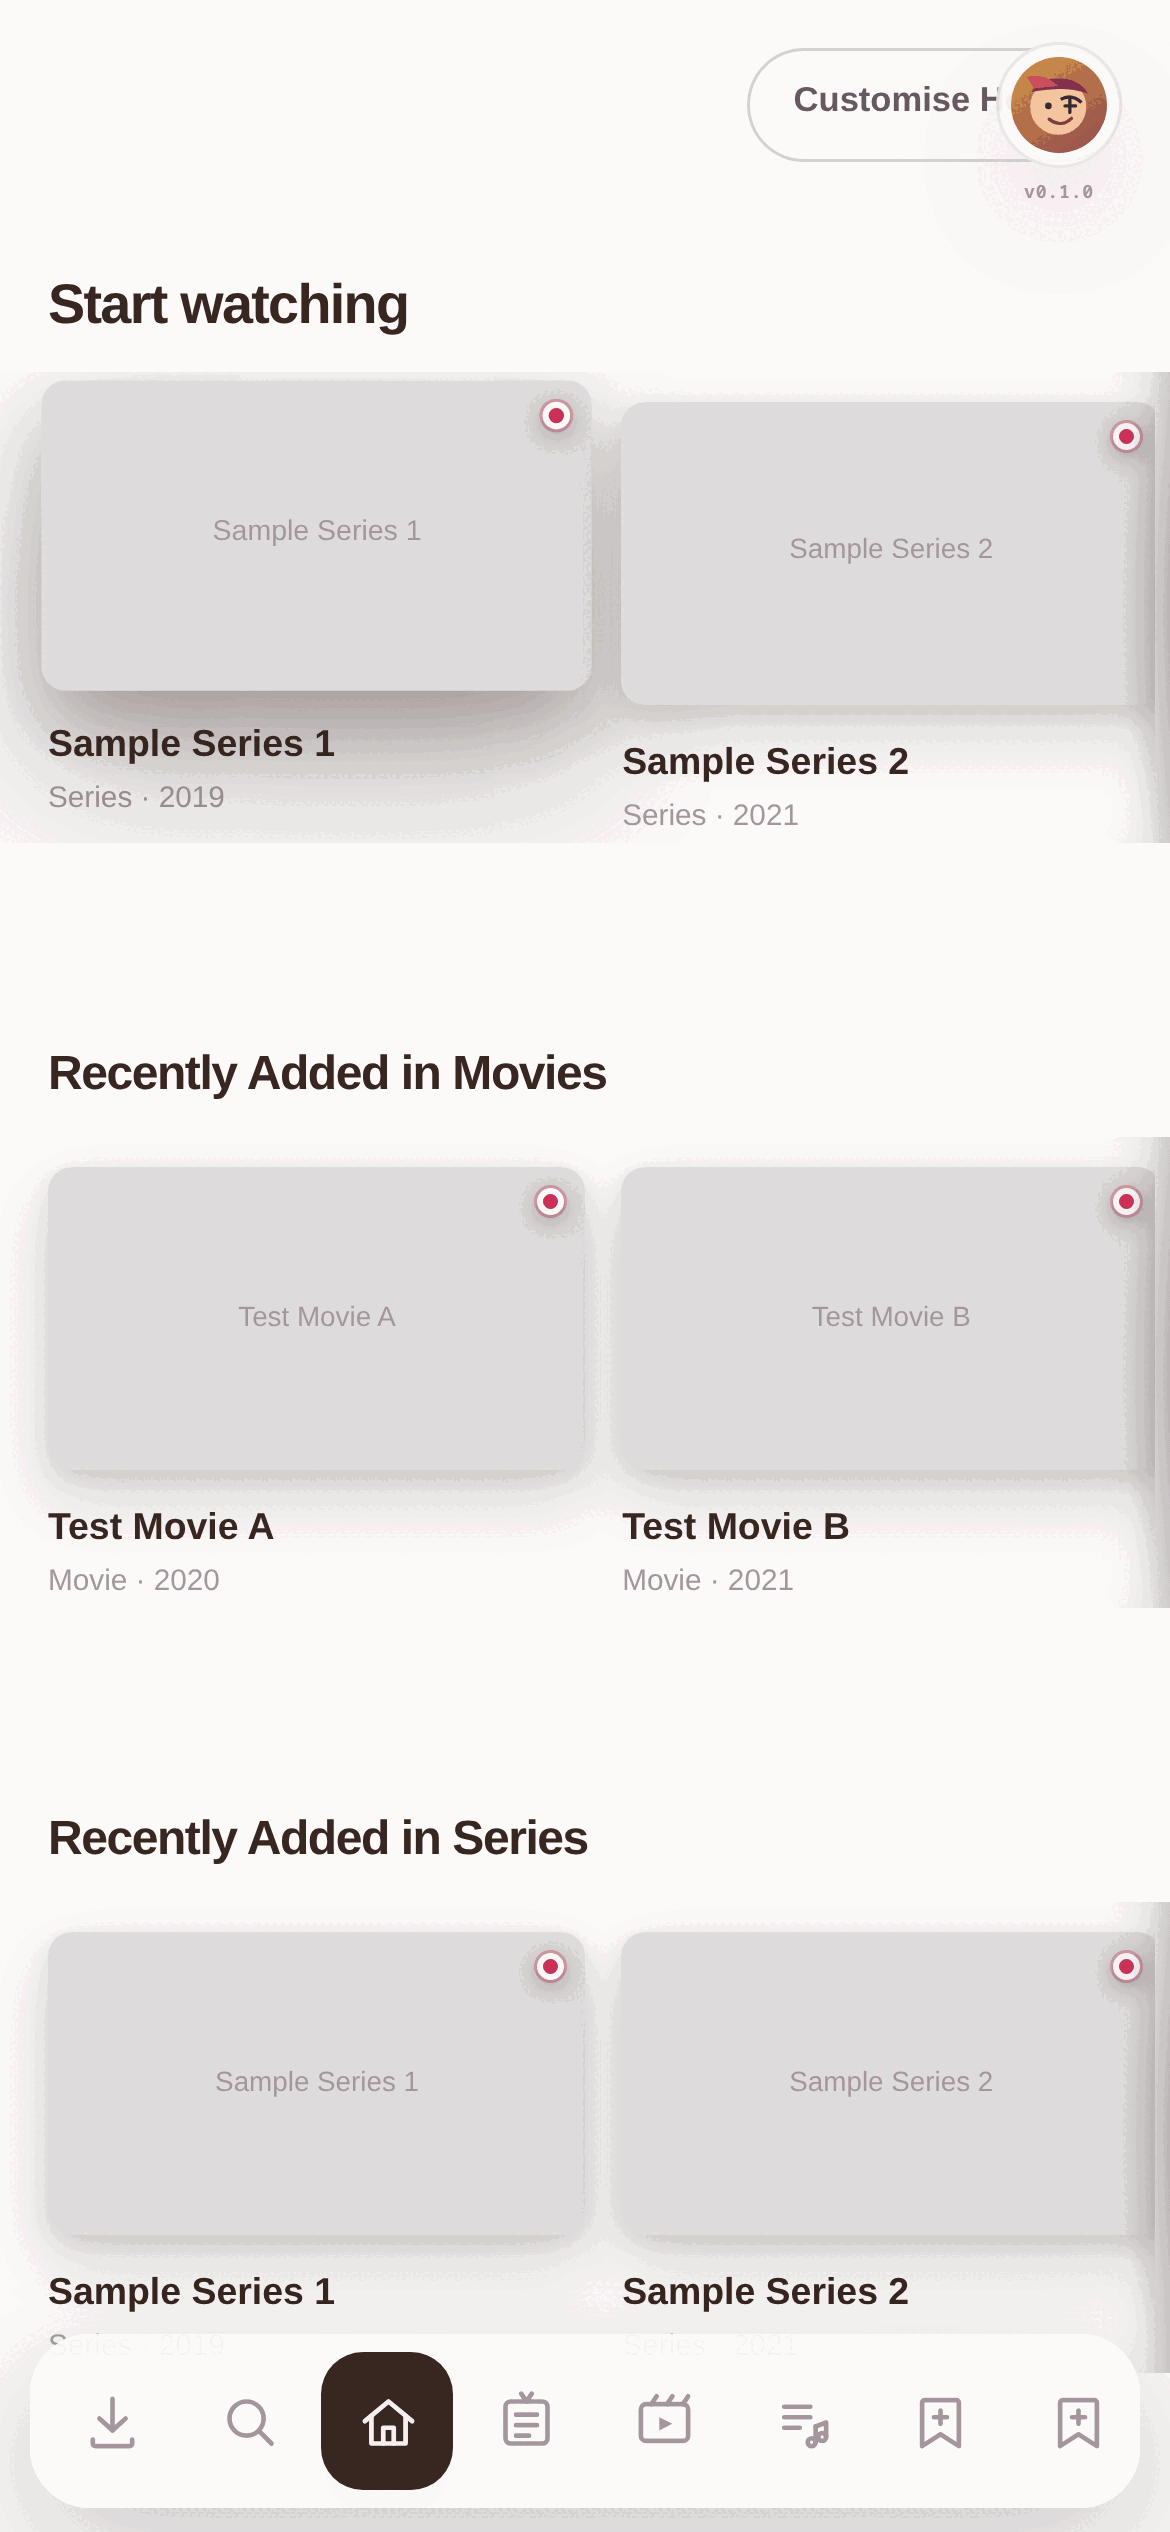
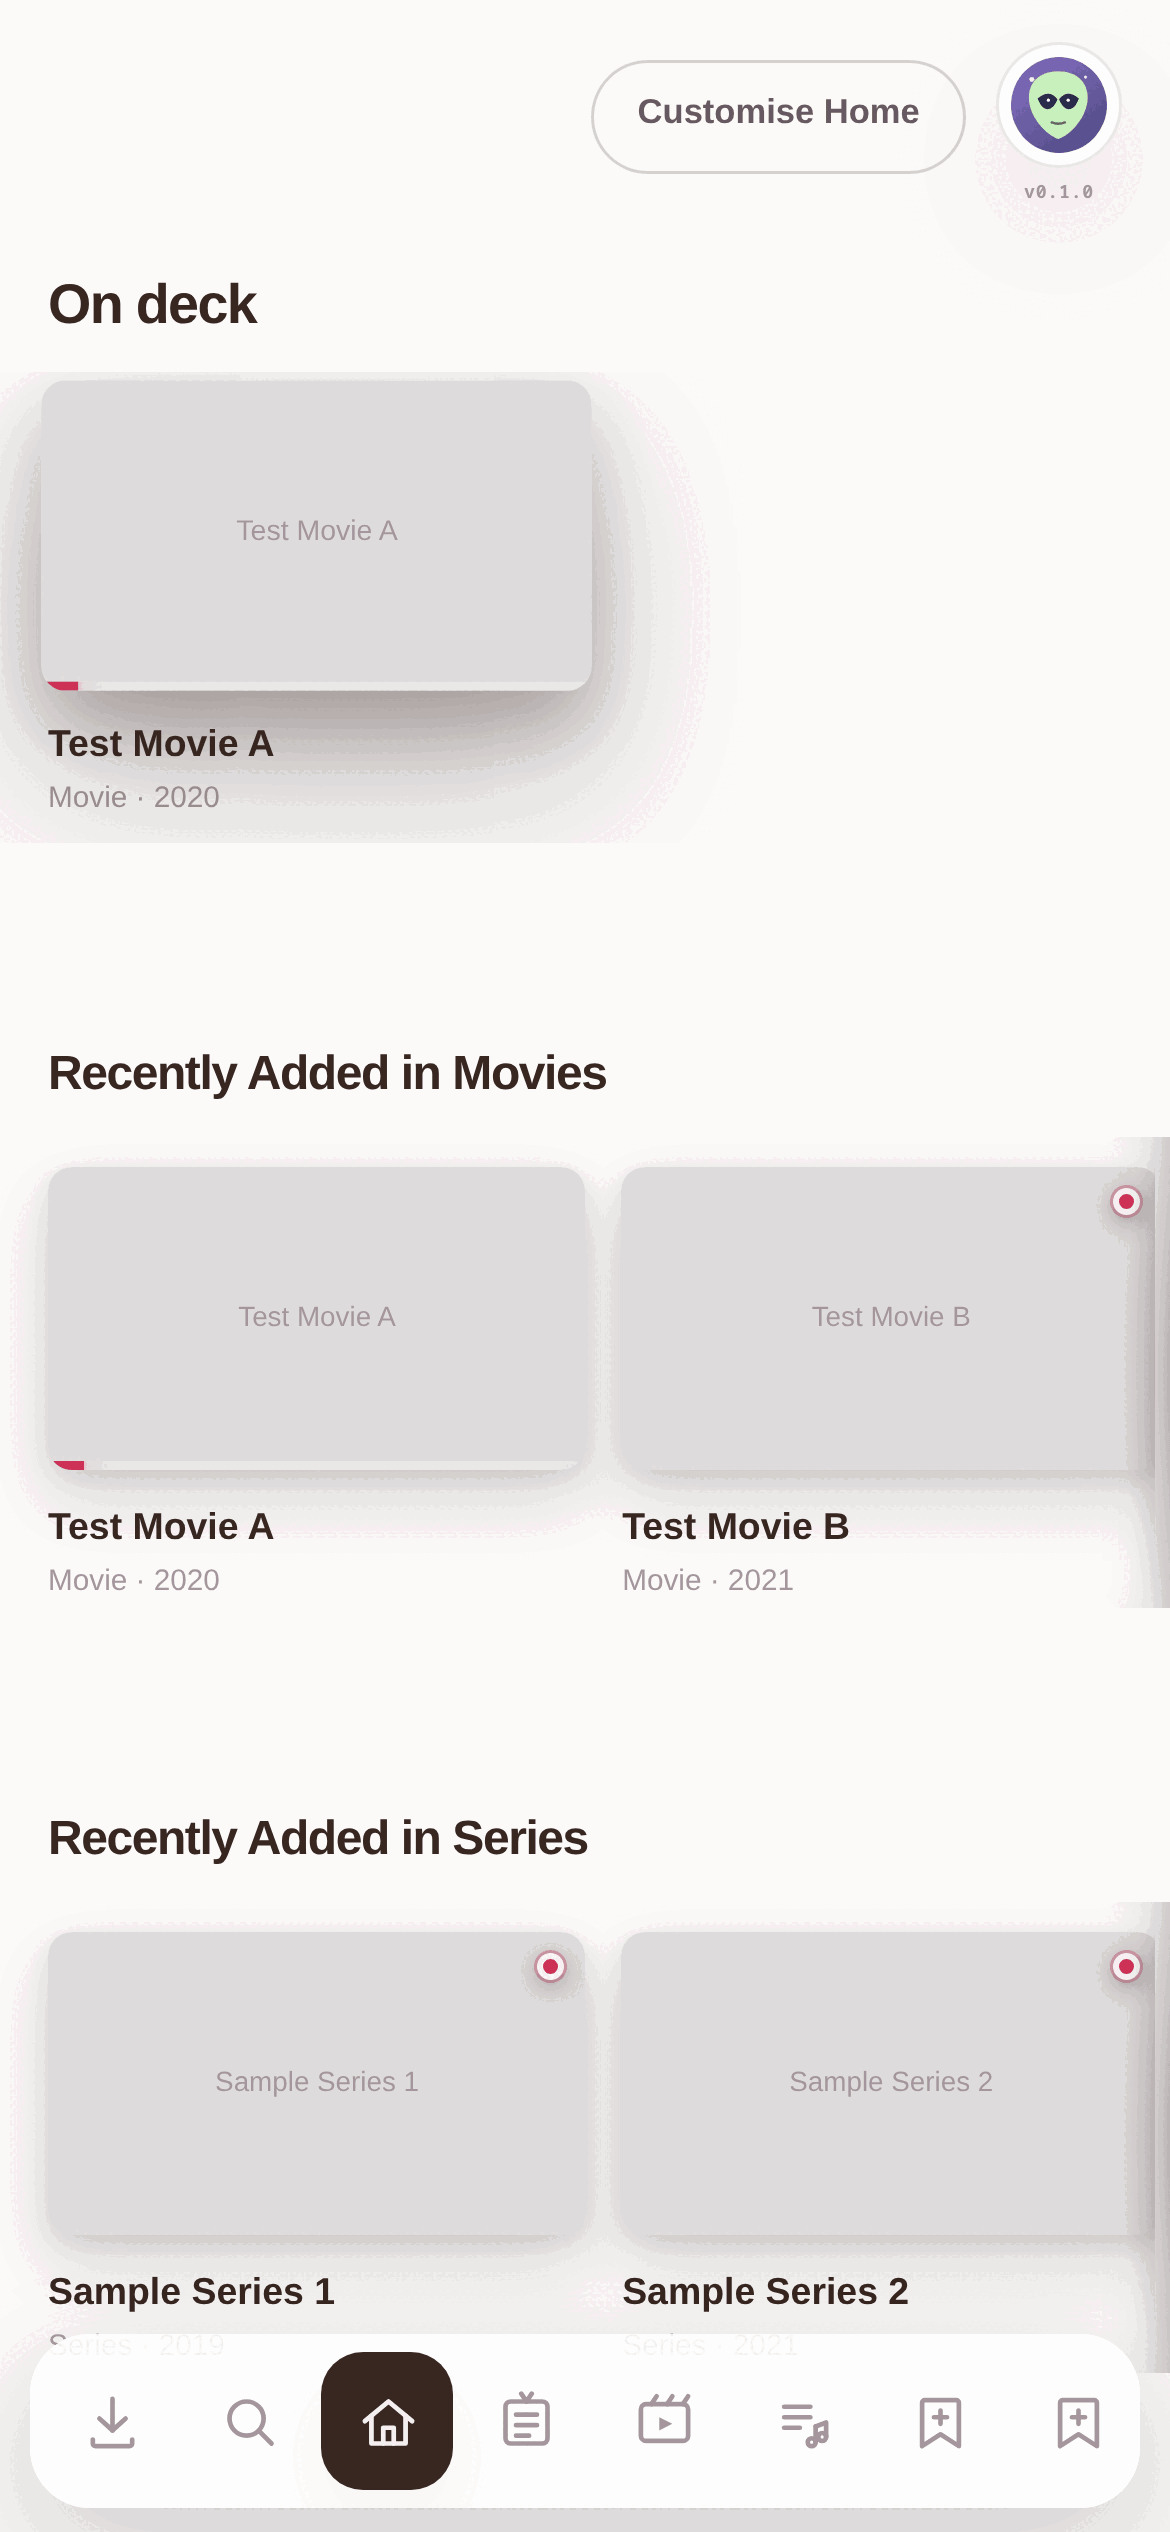
fix(web): update mobile home evidence

diff --git a/clients/tv-web/web/src/styles/global.css b/clients/tv-web/web/src/styles/global.css
@@ -10303,7 +10303,7 @@ html.is-native-scroll-root .profile-auth-scroll {
   }
 
   /* Keep the Customise button clear of the 44px profile avatar in the top-right corner. */
-  .tv-home-customise {
+  .tv-home .tv-home-customise {
     top: calc(var(--mobile-top-inset) + 6px);
     right: calc(var(--mobile-page-gutter) + 52px);
   }

diff --git a/tasks.d/490.md b/tasks.d/490.md
@@ -1,2 +1,2 @@
 section: Active: Pixel parity campaign (2026-10-07)
-| 490 | Web mobile home rails are indented by the TV left-fade inset instead of left-aligned at the page gutter | in review | Unassigned | Cause: the mobile block re-applied `padding-left: var(--tv-track-left-fade)` (88px or more) to `.tv-media-track` and its scroller, so every rail started about 88px in. Fix: on the mobile breakpoint `--tv-track-left-fade` is the page gutter. TV and desktop CSS unchanged. Regression: `Home.test.ts`; before and after captures at 390x844 DPR 3 in `docs/validation/evidence/web-mobile-home-rails/`. |
+| 490 | Web mobile home rails are indented by the TV left-fade inset instead of left-aligned at the page gutter | in review | Unassigned | Also fixed: the Customise Home button overlapped the profile avatar at 390 px. Cause: the mobile block re-applied `padding-left: var(--tv-track-left-fade)` (88px or more) to `.tv-media-track` and its scroller, so every rail started about 88px in. Fix: on the mobile breakpoint `--tv-track-left-fade` is the page gutter. TV and desktop CSS unchanged. Regression: `Home.test.ts`; before and after captures at 390x844 DPR 3 in `docs/validation/evidence/web-mobile-home-rails/`. |

diff --git a/changelog.d/web-mobile-home-rails-left-align.fixed.md b/changelog.d/web-mobile-home-rails-left-align.fixed.md
@@ -1,1 +1,2 @@
 - Web mobile home: rails and their headings now start at the page gutter instead of being indented by the TV left-fade inset; cards pack from the left at the normal gap.
+- Web mobile home: the Customise Home button no longer overlaps the profile avatar.
